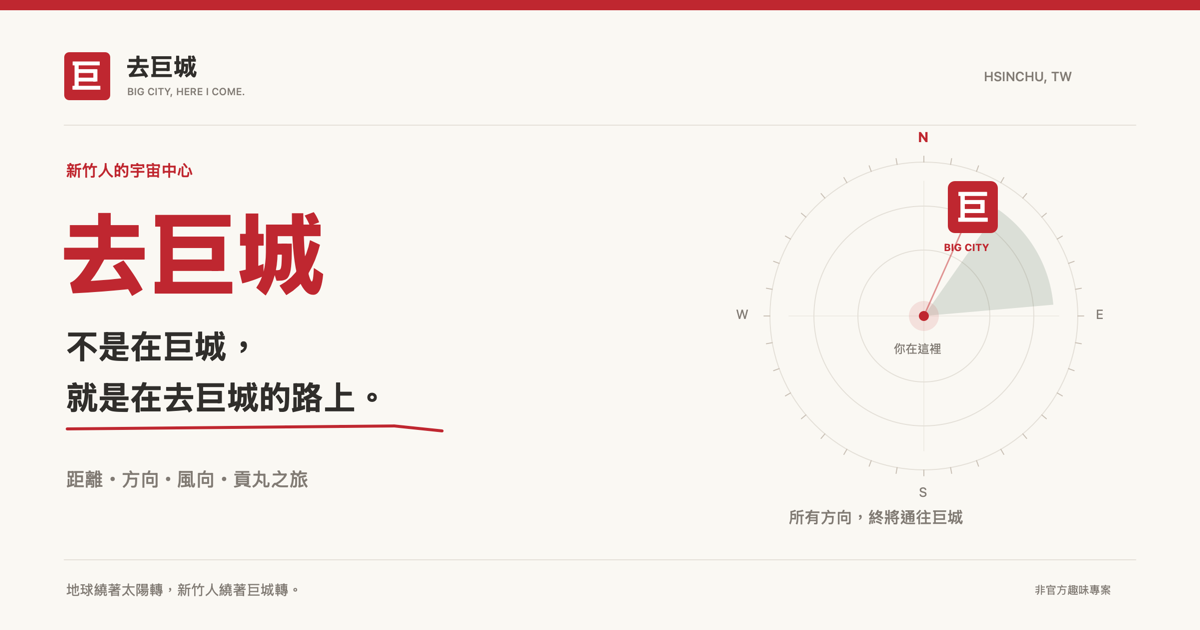
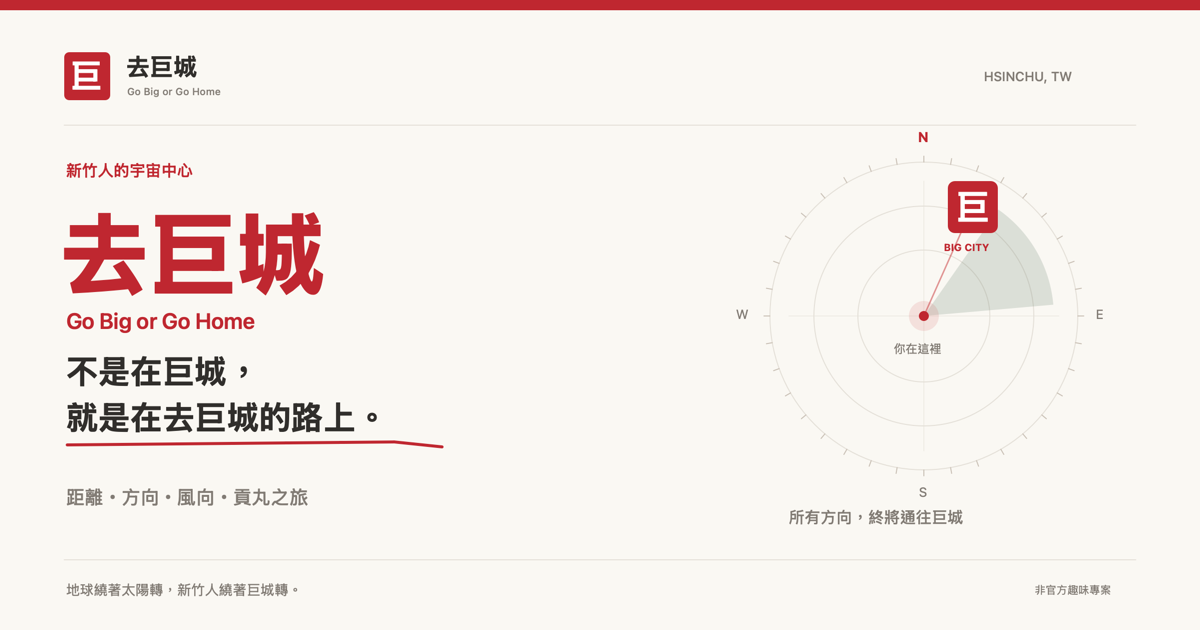
Update Site source

Changed region(s): [[0.0308, 0.4825, 0.37, 0.8143], [0.0925, 0.1206, 0.2158, 0.1508]]

diff --git a/dist/index.html b/dist/index.html
@@ -4,26 +4,26 @@
 <meta charset="UTF-8">
 <meta name="viewport" content="width=device-width,initial-scale=1">
 <meta name="theme-color" content="#c7252d">
-<title>去巨城 · All roads lead to Big City</title>
+<title>去巨城 · Go Big or Go Home</title>
 <meta name="description" content="你離巨城有多近？距離、指北針、風向雷達，還有騎貢丸的奇妙旅程。">
 <link rel="canonical" href="https://qu-jucheng-hsinchu.moderndumpling4.chatgpt.site/">
 <meta property="og:type" content="website">
 <meta property="og:locale" content="zh_TW">
-<meta property="og:site_name" content="去巨城">
-<meta property="og:title" content="去巨城 · 新竹人的宇宙中心">
+<meta property="og:site_name" content="Go Big or Go Home · 去巨城">
+<meta property="og:title" content="去巨城 · Go Big or Go Home">
 <meta property="og:description" content="不是在巨城，就是在去巨城的路上。看看你離巨城有多近！">
 <meta property="og:url" content="https://qu-jucheng-hsinchu.moderndumpling4.chatgpt.site/">
-<meta property="og:image" content="https://qu-jucheng-hsinchu.moderndumpling4.chatgpt.site/social-preview.png">
-<meta property="og:image:secure_url" content="https://qu-jucheng-hsinchu.moderndumpling4.chatgpt.site/social-preview.png">
+<meta property="og:image" content="https://qu-jucheng-hsinchu.moderndumpling4.chatgpt.site/social-preview.png?v=go-big-or-go-home">
+<meta property="og:image:secure_url" content="https://qu-jucheng-hsinchu.moderndumpling4.chatgpt.site/social-preview.png?v=go-big-or-go-home">
 <meta property="og:image:type" content="image/png">
 <meta property="og:image:width" content="1200">
 <meta property="og:image:height" content="630">
-<meta property="og:image:alt" content="去巨城：不是在巨城，就是在去巨城的路上。紅色巨城標記與綠色風向扇形羅盤。">
+<meta property="og:image:alt" content="Go Big or Go Home · 去巨城：不是在巨城，就是在去巨城的路上。紅色巨城標記與綠色風向扇形羅盤。">
 <meta name="twitter:card" content="summary_large_image">
-<meta name="twitter:title" content="去巨城 · 新竹人的宇宙中心">
+<meta name="twitter:title" content="去巨城 · Go Big or Go Home">
 <meta name="twitter:description" content="不是在巨城，就是在去巨城的路上。看看你離巨城有多近！">
-<meta name="twitter:image" content="https://qu-jucheng-hsinchu.moderndumpling4.chatgpt.site/social-preview.png">
-<meta name="twitter:image:alt" content="去巨城：紅色巨城標記與綠色風向扇形羅盤。">
+<meta name="twitter:image" content="https://qu-jucheng-hsinchu.moderndumpling4.chatgpt.site/social-preview.png?v=go-big-or-go-home">
+<meta name="twitter:image:alt" content="Go Big or Go Home · 去巨城：紅色巨城標記與綠色風向扇形羅盤。">
 <link rel="stylesheet" href="style.css">
 </head>
 <body>
@@ -33,7 +33,7 @@
 <symbol id="wind" viewBox="0 0 24 24"><path d="M3 8h12a3 3 0 1 0-3-3M2 12h17a3 3 0 1 1-3 3M5 16h4a3 3 0 1 1-3 3"/></symbol>
 <symbol id="locate" viewBox="0 0 24 24"><circle cx="12" cy="12" r="7"/><circle cx="12" cy="12" r="2"/><path d="M12 1v4m0 14v4M1 12h4m14 0h4"/></symbol>
 </defs></svg>
-<header class="site-header"><a class="brand" href="./" aria-label="去巨城首頁"><span class="brand-mark">巨</span><span>去巨城<span class="brand-en">BIG CITY, HERE I COME.</span></span></a><div class="header-right"><span class="hsinchu">新竹人的日常導航</span><span class="city-tag"><span class="dot"></span> HSINCHU, TW</span></div></header>
+<header class="site-header"><a class="brand" href="./" aria-label="去巨城首頁"><span class="brand-mark">巨</span><span>去巨城<span class="brand-en">Go Big or Go Home</span></span></a><div class="header-right"><span class="hsinchu">新竹人的日常導航</span><span class="city-tag"><span class="dot"></span> HSINCHU, TW</span></div></header>
 <main>
 <section class="intro"><div><div class="eyebrow">THE CENTER OF OUR UNIVERSE</div><h1>不是在巨城，<br>就是在<span class="underlined">去巨城的路上<svg viewBox="0 0 400 14" aria-hidden="true"><path d="M2 10Q200-4 397 7"/></svg></span>。</h1><p>新竹人的宇宙中心，今天離你有多近？</p></div><div class="intro-stamp"><span>ALL ROADS<br>LEAD TO</span><strong>巨城</strong><svg class="icon"><use href="#arrow"/></svg></div></section>
 <div class="location-bar"><div class="location-state"><span class="pulse"></span><span id="location-label">探索模式 · 新竹火車站附近</span><span class="demo-pill" id="mode-label">DEMO</span></div><button class="text-button" id="locate-btn"><svg class="icon"><use href="#locate"/></svg><span>使用我的位置</span><span aria-hidden="true">↗</span></button></div>

diff --git a/index.html b/index.html
@@ -4,26 +4,26 @@
 <meta charset="UTF-8">
 <meta name="viewport" content="width=device-width,initial-scale=1">
 <meta name="theme-color" content="#c7252d">
-<title>去巨城 · All roads lead to Big City</title>
+<title>去巨城 · Go Big or Go Home</title>
 <meta name="description" content="你離巨城有多近？距離、指北針、風向雷達，還有騎貢丸的奇妙旅程。">
 <link rel="canonical" href="https://qu-jucheng-hsinchu.moderndumpling4.chatgpt.site/">
 <meta property="og:type" content="website">
 <meta property="og:locale" content="zh_TW">
-<meta property="og:site_name" content="去巨城">
-<meta property="og:title" content="去巨城 · 新竹人的宇宙中心">
+<meta property="og:site_name" content="Go Big or Go Home · 去巨城">
+<meta property="og:title" content="去巨城 · Go Big or Go Home">
 <meta property="og:description" content="不是在巨城，就是在去巨城的路上。看看你離巨城有多近！">
 <meta property="og:url" content="https://qu-jucheng-hsinchu.moderndumpling4.chatgpt.site/">
-<meta property="og:image" content="https://qu-jucheng-hsinchu.moderndumpling4.chatgpt.site/social-preview.png">
-<meta property="og:image:secure_url" content="https://qu-jucheng-hsinchu.moderndumpling4.chatgpt.site/social-preview.png">
+<meta property="og:image" content="https://qu-jucheng-hsinchu.moderndumpling4.chatgpt.site/social-preview.png?v=go-big-or-go-home">
+<meta property="og:image:secure_url" content="https://qu-jucheng-hsinchu.moderndumpling4.chatgpt.site/social-preview.png?v=go-big-or-go-home">
 <meta property="og:image:type" content="image/png">
 <meta property="og:image:width" content="1200">
 <meta property="og:image:height" content="630">
-<meta property="og:image:alt" content="去巨城：不是在巨城，就是在去巨城的路上。紅色巨城標記與綠色風向扇形羅盤。">
+<meta property="og:image:alt" content="Go Big or Go Home · 去巨城：不是在巨城，就是在去巨城的路上。紅色巨城標記與綠色風向扇形羅盤。">
 <meta name="twitter:card" content="summary_large_image">
-<meta name="twitter:title" content="去巨城 · 新竹人的宇宙中心">
+<meta name="twitter:title" content="去巨城 · Go Big or Go Home">
 <meta name="twitter:description" content="不是在巨城，就是在去巨城的路上。看看你離巨城有多近！">
-<meta name="twitter:image" content="https://qu-jucheng-hsinchu.moderndumpling4.chatgpt.site/social-preview.png">
-<meta name="twitter:image:alt" content="去巨城：紅色巨城標記與綠色風向扇形羅盤。">
+<meta name="twitter:image" content="https://qu-jucheng-hsinchu.moderndumpling4.chatgpt.site/social-preview.png?v=go-big-or-go-home">
+<meta name="twitter:image:alt" content="Go Big or Go Home · 去巨城：紅色巨城標記與綠色風向扇形羅盤。">
 <link rel="stylesheet" href="style.css">
 </head>
 <body>
@@ -33,7 +33,7 @@
 <symbol id="wind" viewBox="0 0 24 24"><path d="M3 8h12a3 3 0 1 0-3-3M2 12h17a3 3 0 1 1-3 3M5 16h4a3 3 0 1 1-3 3"/></symbol>
 <symbol id="locate" viewBox="0 0 24 24"><circle cx="12" cy="12" r="7"/><circle cx="12" cy="12" r="2"/><path d="M12 1v4m0 14v4M1 12h4m14 0h4"/></symbol>
 </defs></svg>
-<header class="site-header"><a class="brand" href="./" aria-label="去巨城首頁"><span class="brand-mark">巨</span><span>去巨城<span class="brand-en">BIG CITY, HERE I COME.</span></span></a><div class="header-right"><span class="hsinchu">新竹人的日常導航</span><span class="city-tag"><span class="dot"></span> HSINCHU, TW</span></div></header>
+<header class="site-header"><a class="brand" href="./" aria-label="去巨城首頁"><span class="brand-mark">巨</span><span>去巨城<span class="brand-en">Go Big or Go Home</span></span></a><div class="header-right"><span class="hsinchu">新竹人的日常導航</span><span class="city-tag"><span class="dot"></span> HSINCHU, TW</span></div></header>
 <main>
 <section class="intro"><div><div class="eyebrow">THE CENTER OF OUR UNIVERSE</div><h1>不是在巨城，<br>就是在<span class="underlined">去巨城的路上<svg viewBox="0 0 400 14" aria-hidden="true"><path d="M2 10Q200-4 397 7"/></svg></span>。</h1><p>新竹人的宇宙中心，今天離你有多近？</p></div><div class="intro-stamp"><span>ALL ROADS<br>LEAD TO</span><strong>巨城</strong><svg class="icon"><use href="#arrow"/></svg></div></section>
 <div class="location-bar"><div class="location-state"><span class="pulse"></span><span id="location-label">探索模式 · 新竹火車站附近</span><span class="demo-pill" id="mode-label">DEMO</span></div><button class="text-button" id="locate-btn"><svg class="icon"><use href="#locate"/></svg><span>使用我的位置</span><span aria-hidden="true">↗</span></button></div>

diff --git a/scripts/generate-social-preview.swift b/scripts/generate-social-preview.swift
@@ -15,15 +15,16 @@ func path(_ points:[NSPoint],_ stroke:NSColor,_ thickness:CGFloat=1){let p=NSBez
 func circle(_ x:CGFloat,_ y:CGFloat,_ radius:CGFloat,_ stroke:NSColor,_ thickness:CGFloat=1){let p=NSBezierPath(ovalIn:NSRect(x:x-radius,y:y-radius,width:radius*2,height:radius*2));p.lineWidth=thickness;stroke.setStroke();p.stroke()}
 rect(0,0,1200,630,color(0xfaf8f3));rect(0,0,1200,10,red)
 rect(64,52,46,48,red,5);text("巨",70,54,34,.white,.bold)
-text("去巨城",126,51,25,ink,.bold);text("BIG CITY, HERE I COME.",127,85,10,muted,.medium)
+text("去巨城",126,51,25,ink,.bold);text("Go Big or Go Home",127,85,10,muted,.medium)
 text("HSINCHU, TW",984,68,13,muted,.medium)
 path([NSPoint(x:64,y:125),NSPoint(x:1136,y:125)],line)
 text("新竹人的宇宙中心",66,161,16,red,.semibold)
 text("去巨城",60,195,94,red,.heavy)
-text("不是在巨城，",66,325,34,ink,.bold)
-text("就是在去巨城的路上。",66,376,34,ink,.bold)
-path([NSPoint(x:67,y:429),NSPoint(x:394,y:426),NSPoint(x:442,y:431)],red,3)
-text("距離・方向・風向・貢丸之旅",66,468,19,muted,.medium)
+text("Go Big or Go Home",66,308,22,red,.semibold)
+text("不是在巨城，",66,350,34,ink,.bold)
+text("就是在去巨城的路上。",66,396,34,ink,.bold)
+path([NSPoint(x:67,y:445),NSPoint(x:394,y:442),NSPoint(x:442,y:447)],red,3)
+text("距離・方向・風向・貢丸之旅",66,486,19,muted,.medium)
 let cx:CGFloat=924, cy:CGFloat=316
 for r:CGFloat in [66,110,154]{circle(cx,cy,r,line)}
 for degree in stride(from:0,to:360,by:10){let a=CGFloat(degree)*CGFloat.pi/180;path([NSPoint(x:cx+154*sin(a),y:cy-154*cos(a)),NSPoint(x:cx+160*sin(a),y:cy-160*cos(a))],color(0xc9c0b5))}

diff --git a/README.md b/README.md
@@ -1,4 +1,4 @@
-# 去巨城 · Big City, here I come
+# 去巨城 · Go Big or Go Home
 
 A responsive Traditional Chinese web app built with plain HTML, CSS, and JavaScript. No API key or runtime dependencies.
 
